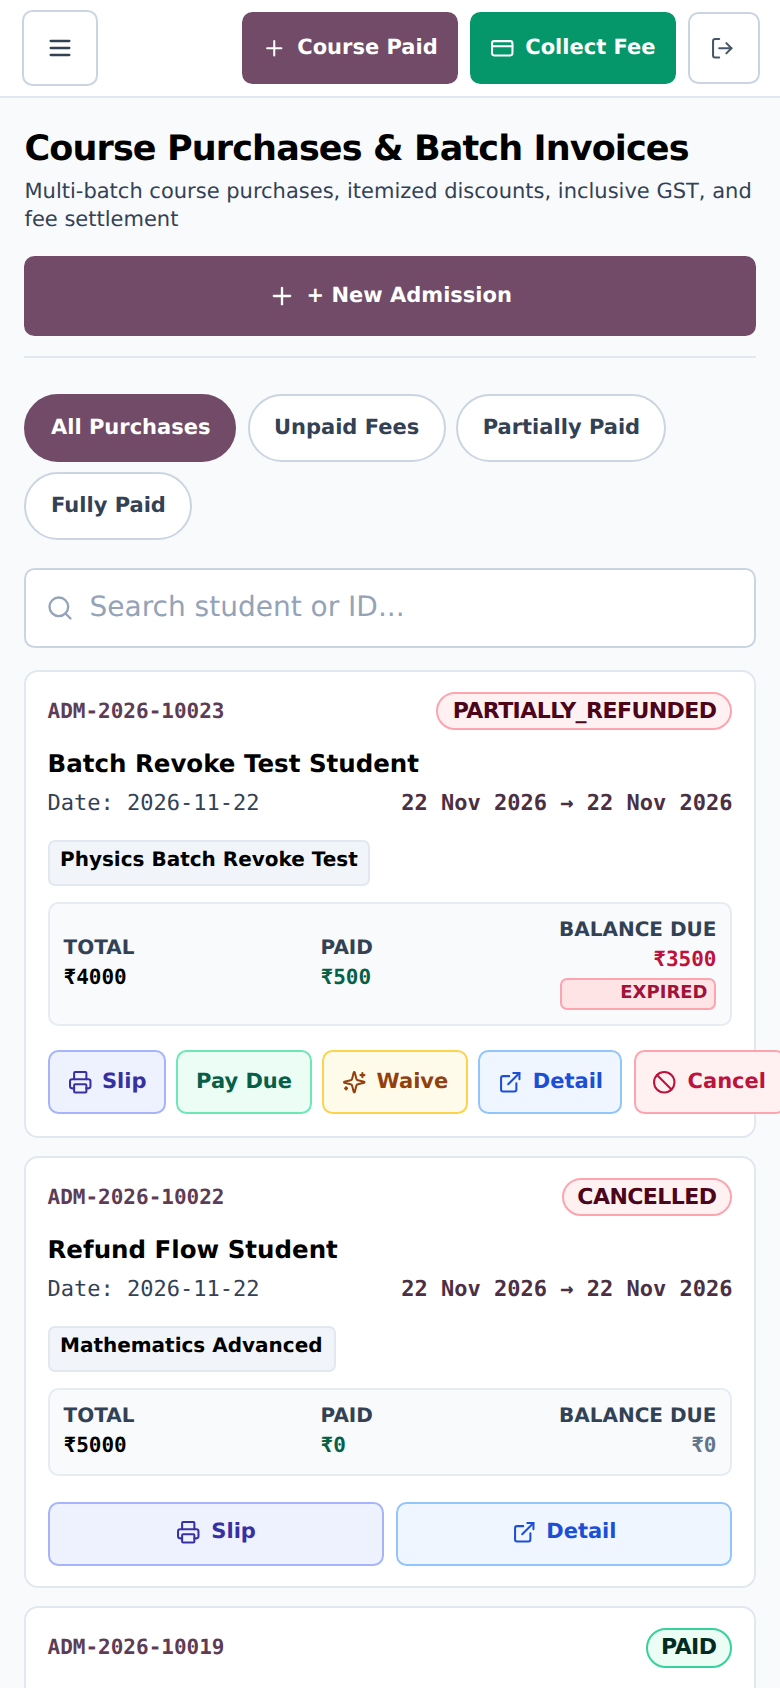
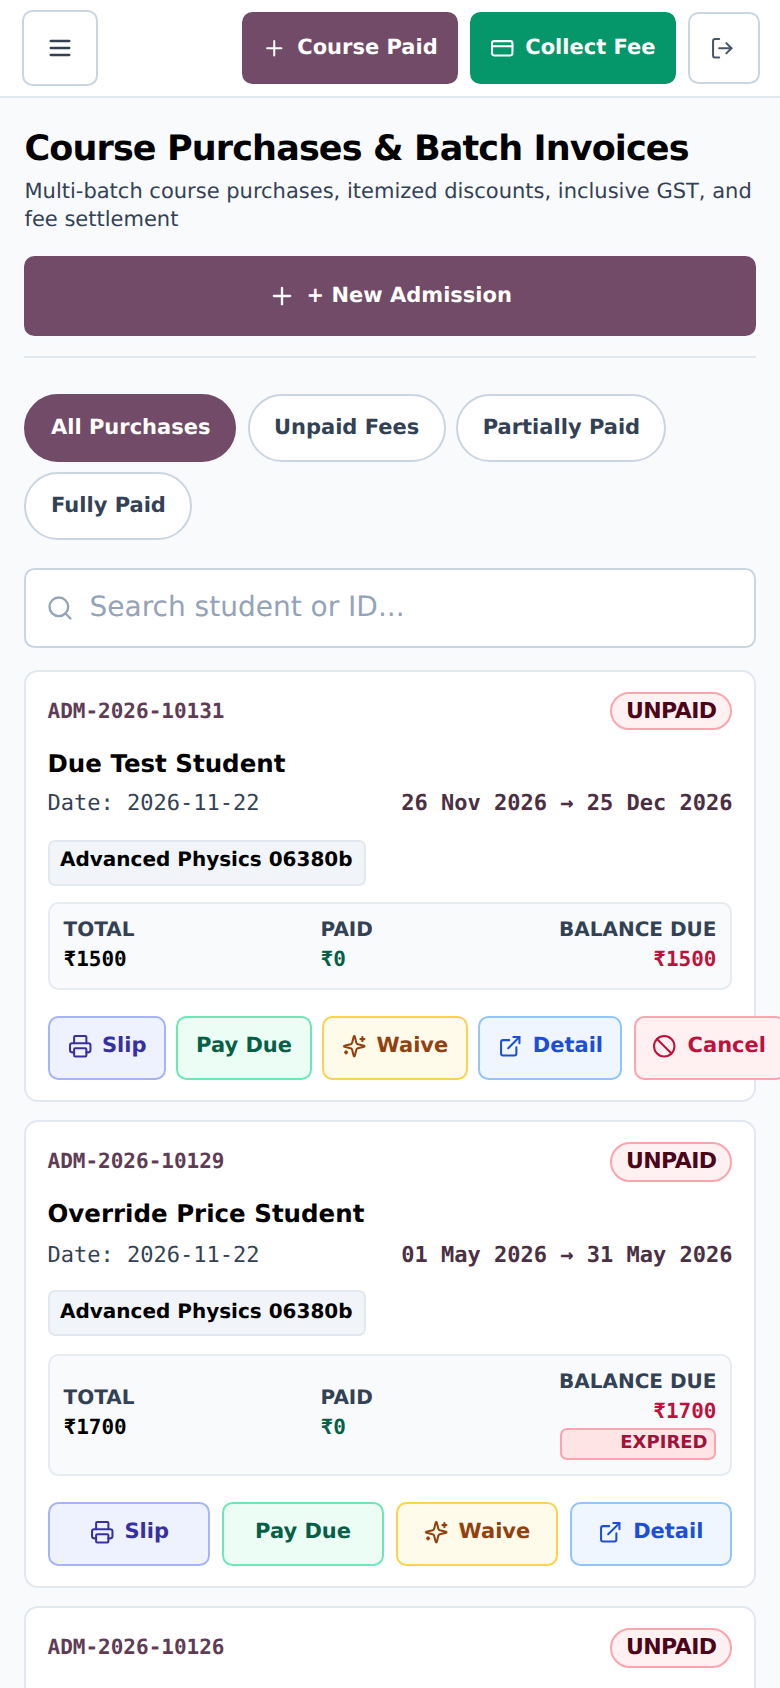
feat(ui): refine semantic row action button colours across modals and student details

diff --git a/frontend/src/pages/students/StudentDetailPage.jsx b/frontend/src/pages/students/StudentDetailPage.jsx
@@ -612,7 +612,7 @@ export default function StudentDetailPage() {
             {/* Edit Student Profile Button */}
             <Button
               size="xs"
-              variant="secondary"
+              variant="amber"
               icon={Edit2}
               onClick={() => setEditModalOpen(true)}
               title="Edit Student Information"
@@ -624,11 +624,11 @@ export default function StudentDetailPage() {
             {/* Student ID Card Button */}
             <Button
               size="xs"
-              variant="secondary"
+              variant="indigo"
               icon={IdCard}
               onClick={() => setIdCardModalOpen(true)}
               title="View, Print & WhatsApp Student ID Card"
-              className="flex-1 sm:flex-initial justify-center bg-indigo-50 hover:bg-indigo-100 text-indigo-900 border-indigo-200 font-bold"
+              className="flex-1 sm:flex-initial justify-center"
             >
               ID Card
             </Button>
@@ -1139,7 +1139,7 @@ export default function StudentDetailPage() {
                     {Number(item.balance_due) > 0 && !isRevoked && (
                       <Button
                         size="xs"
-                        variant="success"
+                        variant="success-soft"
                         icon={CreditCard}
                         onClick={() => {
                           setTargetAdmissionId(item.admission_id);
@@ -1152,7 +1152,7 @@ export default function StudentDetailPage() {
                     )}
                     <Button
                       size="xs"
-                      variant="secondary"
+                      variant="success-soft"
                       icon={RefreshCw}
                       onClick={() => {
                         setSelectedItemForRenew(item);
@@ -1164,26 +1164,26 @@ export default function StudentDetailPage() {
                     </Button>
                     <Button
                       size="xs"
-                      variant="secondary"
+                      variant="teal-soft"
                       icon={ArrowLeftRight}
                       onClick={() => {
                         setSelectedItemForChange(item);
                         setChangeModalOpen(true);
                       }}
-                      className="flex-1 justify-center text-odoo-800 border-purple-200 hover:bg-purple-50"
+                      className="flex-1 justify-center"
                       title="Change Subject"
                     >
                       Change
                     </Button>
                     <Button
                       size="xs"
-                      variant="ghost"
+                      variant="indigo"
                       icon={Calendar}
                       onClick={() => {
                         setSelectedItemForValidity(item);
                         setValidityModalOpen(true);
                       }}
-                      className="flex-1 justify-center border border-slate-200"
+                      className="flex-1 justify-center"
                     >
                       Dates
                     </Button>
@@ -1191,8 +1191,8 @@ export default function StudentDetailPage() {
                       <>
                         <Button
                           size="xs"
-                          variant="ghost"
-                          className="text-amber-800 hover:bg-amber-50 flex-1 justify-center border border-slate-200"
+                          variant="amber"
+                          className="flex-1 justify-center"
                           onClick={() => {
                             setSelectedItemForSuspend(item);
                             setSuspendMode('SUSPEND');
@@ -1203,8 +1203,8 @@ export default function StudentDetailPage() {
                         </Button>
                         <Button
                           size="xs"
-                          variant="ghost"
-                          className="text-rose-700 hover:bg-rose-50 flex-1 justify-center border border-slate-200"
+                          variant="danger-soft"
+                          className="flex-1 justify-center"
                           onClick={() => {
                             setSelectedItemForSuspend(item);
                             setSuspendMode('DISCONTINUE');
@@ -1611,7 +1611,7 @@ export default function StudentDetailPage() {
                         {!isCancelled && (
                           <Button
                             size="xs"
-                            variant="secondary"
+                            variant="success-soft"
                             icon={RefreshCw}
                             onClick={() => {
                               setSelectedItemForRenew(item);
@@ -2591,7 +2591,7 @@ export default function StudentDetailPage() {
 
                       <Button
                         size="xs"
-                        variant="secondary"
+                        variant="indigo"
                         icon={Printer}
                         onClick={() => handleViewReceipt(txn)}
                       >
@@ -2713,7 +2713,7 @@ export default function StudentDetailPage() {
                         <td className="p-2.5 text-right">
                           <Button
                             size="xs"
-                            variant="secondary"
+                            variant="indigo"
                             icon={Printer}
                             onClick={() => handleViewReceipt(txn)}
                           >

diff --git a/frontend/src/components/modals/PaymentDetailModal.jsx b/frontend/src/components/modals/PaymentDetailModal.jsx
@@ -172,7 +172,7 @@ export default function PaymentDetailModal({
           {isAdmin && isActive && onIssueRefund && (
             <Button
               size="sm"
-              variant="danger"
+              variant="orange"
               icon={RotateCcw}
               className="w-full sm:w-auto"
               onClick={() => {
@@ -187,7 +187,7 @@ export default function PaymentDetailModal({
           {isAdmin && isActive && onEditPayment && (
             <Button
               size="sm"
-              variant="secondary"
+              variant="amber"
               icon={Edit2}
               className="w-full sm:w-auto"
               onClick={() => {
@@ -202,7 +202,7 @@ export default function PaymentDetailModal({
           {onPrintReceipt && (
             <Button
               size="sm"
-              variant="primary"
+              variant="indigo"
               icon={Printer}
               className="w-full sm:w-auto"
               onClick={() => {

diff --git a/frontend/src/components/modals/TeacherDetailModal.jsx b/frontend/src/components/modals/TeacherDetailModal.jsx
@@ -145,7 +145,7 @@ export default function TeacherDetailModal({
           {onViewRoster && (
             <Button
               size="sm"
-              variant="secondary"
+              variant="info"
               icon={BookOpen}
               className="w-full sm:w-auto"
               onClick={() => {
@@ -160,7 +160,7 @@ export default function TeacherDetailModal({
           {onEditTeacher && (
             <Button
               size="sm"
-              variant="primary"
+              variant="amber"
               icon={Edit2}
               className="w-full sm:w-auto"
               onClick={() => {

diff --git a/frontend/src/pages/greencard/GreenCardPage.jsx b/frontend/src/pages/greencard/GreenCardPage.jsx
@@ -174,7 +174,7 @@ export default function GreenCardPage() {
               <div className="mt-5 pt-3 border-t border-slate-200 flex justify-end">
                 <Button
                   size="xs"
-                  variant="secondary"
+                  variant="amber"
                   icon={Edit2}
                   onClick={() => handleOpenEdit(c)}
                 >

diff --git a/frontend/src/pages/teachers/TeacherDetailPage.jsx b/frontend/src/pages/teachers/TeacherDetailPage.jsx
@@ -350,7 +350,7 @@ export default function TeacherDetailPage() {
         {/* Action Buttons */}
         <div className="flex flex-wrap items-center gap-2 w-full sm:w-auto">
           <Button
-            variant="secondary"
+            variant="amber"
             icon={Edit2}
             onClick={() => setEditModalOpen(true)}
             size="sm"

diff --git a/frontend/src/components/modals/AdmissionDetailModal.jsx b/frontend/src/components/modals/AdmissionDetailModal.jsx
@@ -259,7 +259,7 @@ export default function AdmissionDetailModal({
           {onPrintSlip && (
             <Button
               size="sm"
-              variant="secondary"
+              variant="indigo"
               icon={Printer}
               onClick={() => {
                 onClose();
